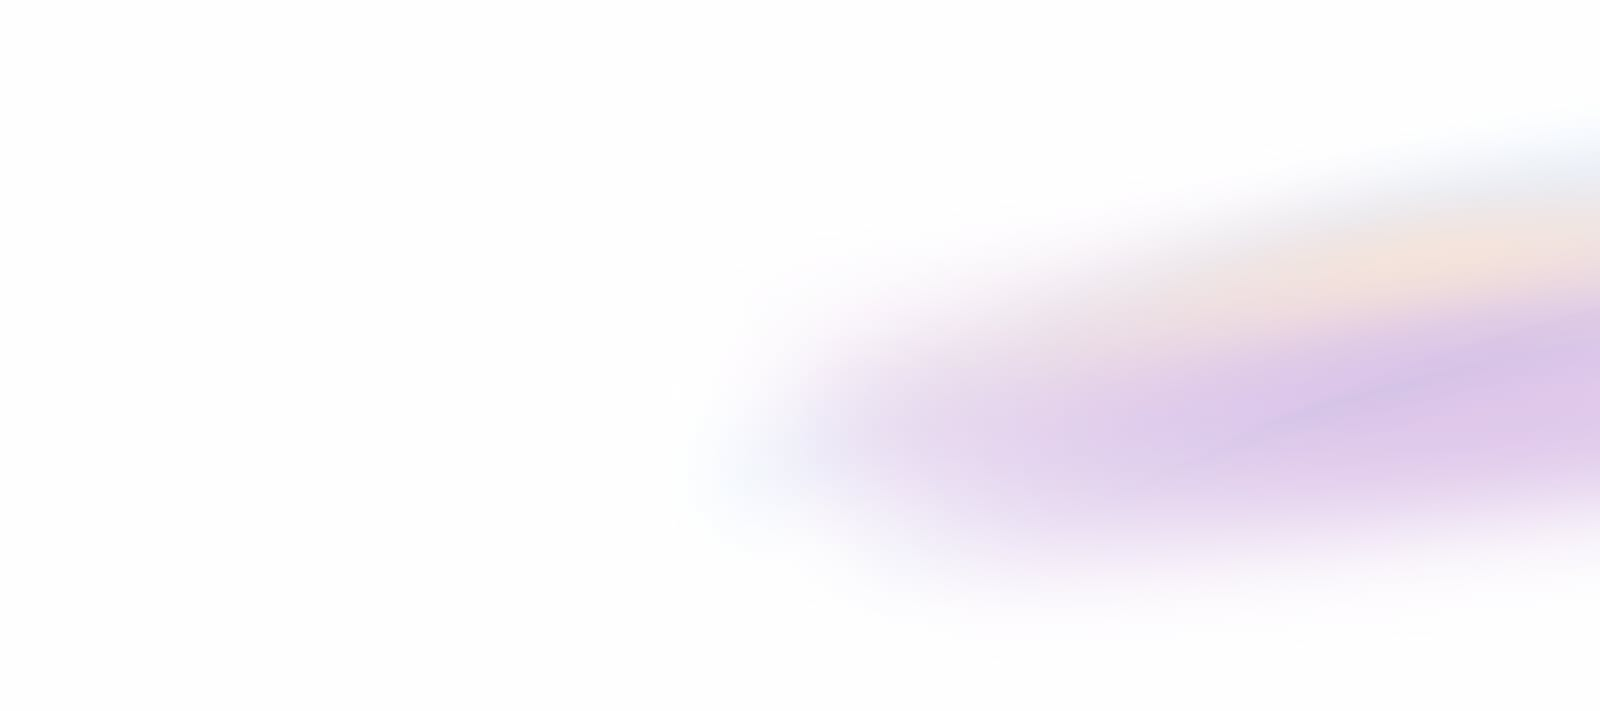
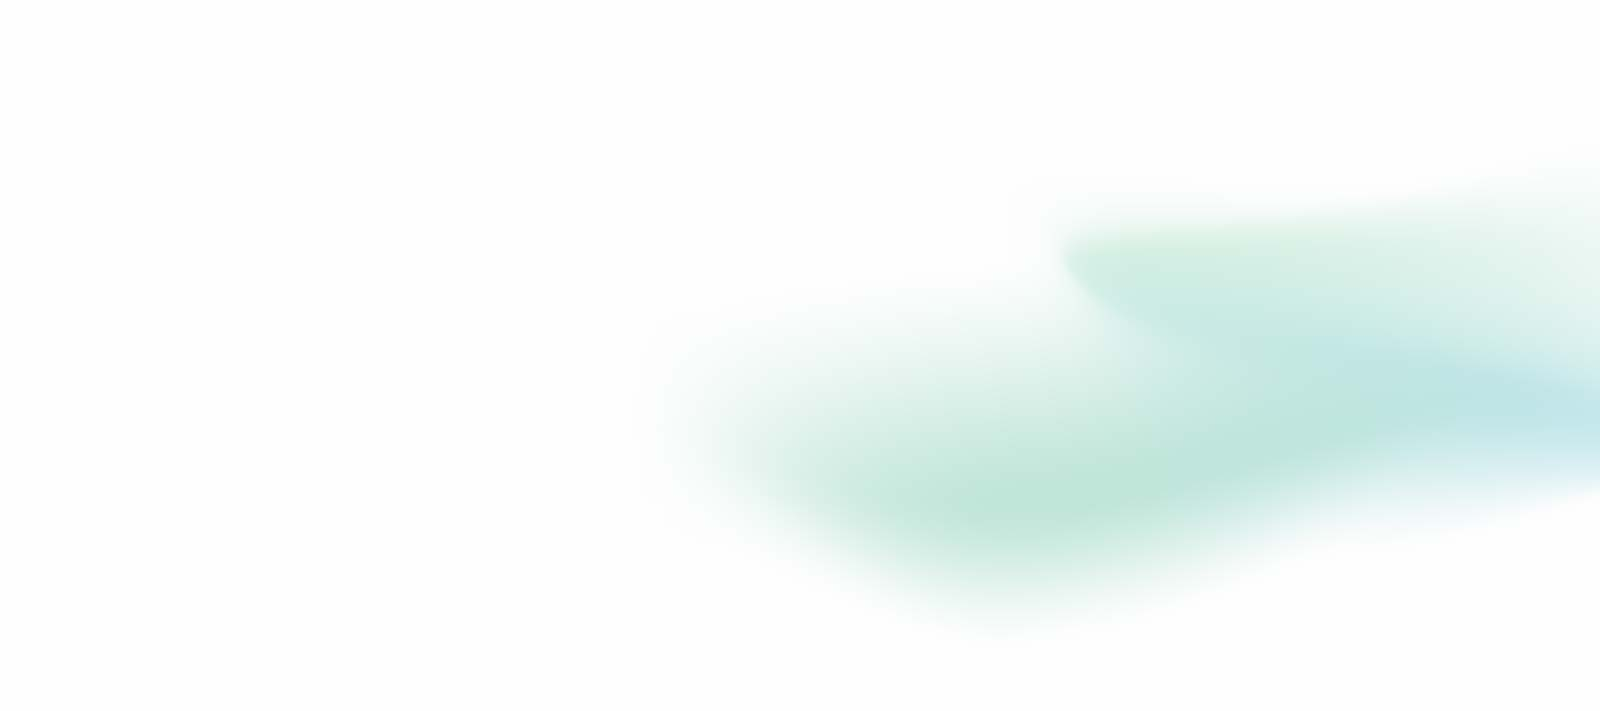
all colours updated

Changed region(s): [[0.5, 0.3404, 1.0, 0.8354]]

diff --git a/src/styles/global.css b/src/styles/global.css
@@ -2,19 +2,19 @@
 :root {
 	/* Colors */
 	--gray-0: #090b11;
-	--gray-50: #141925;
-	--gray-100: #283044;
-	--gray-200: #3d4663;
-	--gray-300: #505d84;
-	--gray-400: #6474a2;
-	--gray-500: #8490b5;
-	--gray-600: #a3acc8;
-	--gray-700: #c3cadb;
+	--gray-50:  #10201E;
+	--gray-100: #1A3632;
+	--gray-200: #2C4D48;
+	--gray-300: #3E655E;
+	--gray-400: #5C867C;
+	--gray-500: #7A9D94;
+	--gray-600: #99BFB1;
+	--gray-700: #B6D6CB;
 	--gray-800: #e3e6ee;
 	--gray-900: #f3f4f7;
 	--gray-999-basis: 0, 0%, 100%;
 	--gray-999_40: hsla(var(--gray-999-basis), 0.4);
-	--gray-999: #ffffff;
+	--gray-999: #e8e8e8;
 
 	--accent-light: #1ED6A6;  /* Mint Green */
 	--accent-regular: #159C86;  /* Teal Green */
@@ -80,15 +80,15 @@
 :root.theme-dark {
 	--gray-0: #ffffff;
 	--gray-50: #f3f4f7;
-	--gray-100: #e3e6ee;
-	--gray-200: #c3cadb;
-	--gray-300: #a3acc8;
-	--gray-400: #8490b5;
-	--gray-500: #6474a2;
-	--gray-600: #505d84;
-	--gray-700: #3d4663;
-	--gray-800: #283044;
-	--gray-900: #141925;
+	--gray-100: #D8F2EB;
+	--gray-200: #B4DFD6;
+	--gray-300: #96C7BC;
+	--gray-400: #79ADA5;
+	--gray-500: #5F978D;
+	--gray-600: #437D74;
+	--gray-700: #31625A;
+	--gray-800: #214640;
+	--gray-900: #142422;
 	--gray-999-basis: 225, 31%, 5%;
 	--gray-999: #090b11;
 
